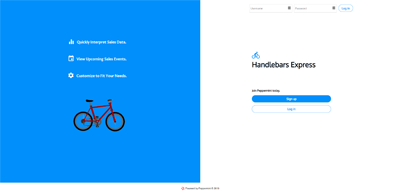
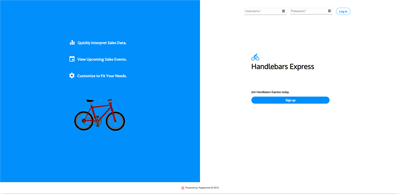
update Login, update image

diff --git a/client/src/pages/Login/Login.jsx b/client/src/pages/Login/Login.jsx
@@ -339,7 +339,8 @@ class Login extends Component {
                     autoFocus
                     error={errors.username ? errors.username : undefined}
                   />
-                  {errors.username ? <p className={classes.errorText}>{errors.username}</p> : undefined}
+                  {errors.username
+                    ? <p className={classes.errorText}>{errors.username}</p> : undefined}
                 </FormControl>
                 <FormControl required>
                   <InputLabel className={classes.inputLabel} htmlFor="password">Password</InputLabel>
@@ -353,7 +354,8 @@ class Login extends Component {
                     autoComplete="current-password"
                     error={errors.password ? errors.password : undefined}
                   />
-                  {errors.password ? <p className={classes.errorText}>{errors.password}</p> : undefined}
+                  {errors.password
+                    ? <p className={classes.errorText}>{errors.password}</p> : undefined}
                 </FormControl>
                 <button
                   type="submit"
@@ -376,7 +378,7 @@ class Login extends Component {
               </div>
               <div className={classes.rowThree}>
                 <div className={classes.boldText}>Handlebars Express</div>
-                <div className={classes.smallText}>Join Peppermint today.</div>
+                <div className={classes.smallText}>Join Handlebars Express today.</div>
               </div>
               <div className={classes.rowFour}>
                 <button
